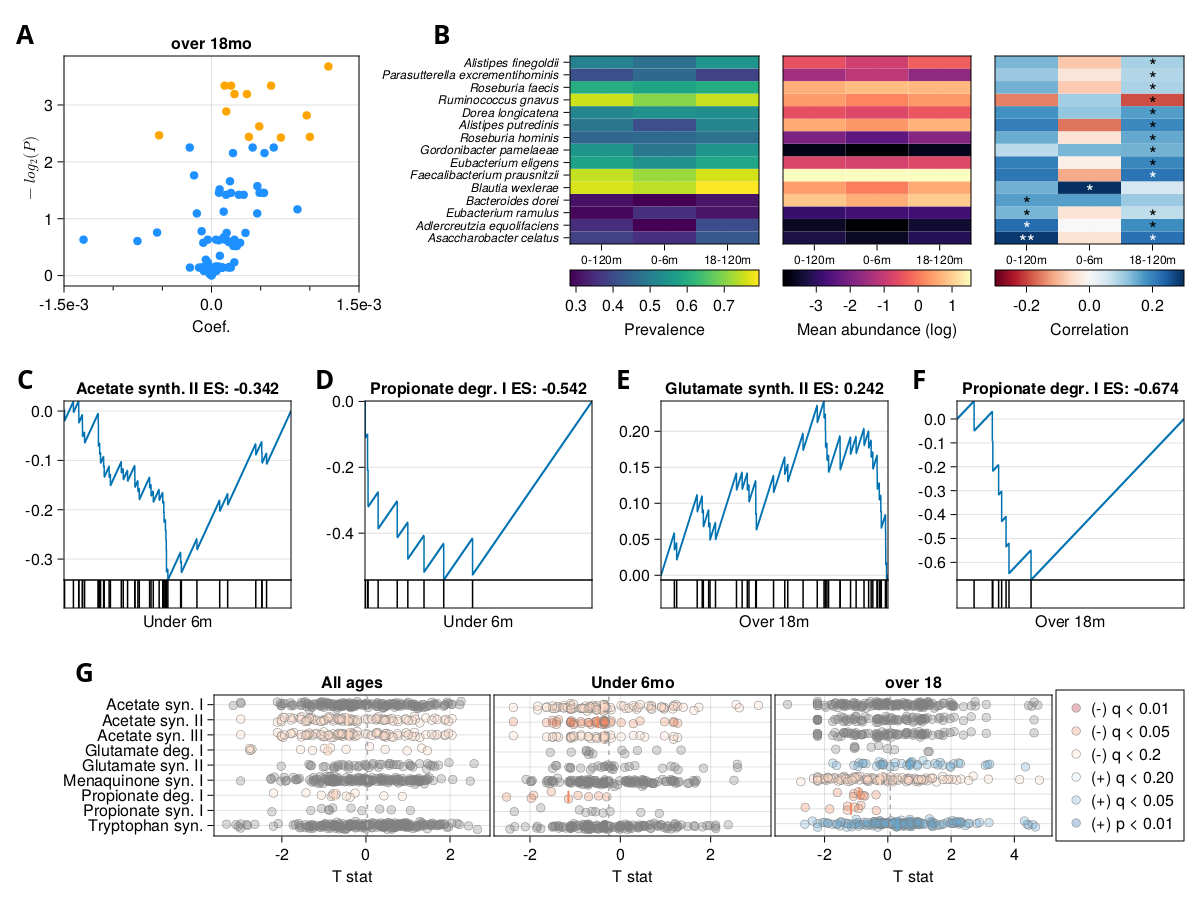
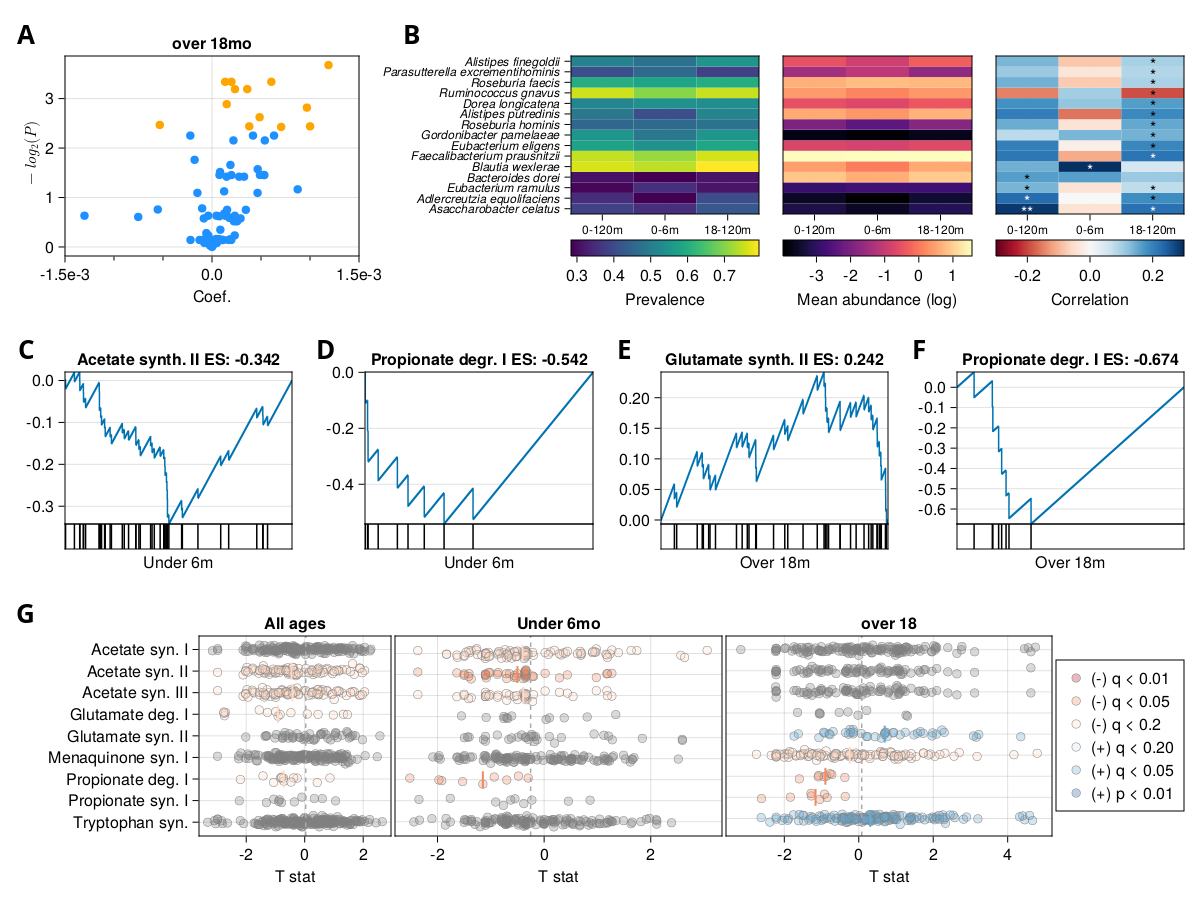
updates to figure 2

diff --git a/manuscript/Figure2.md b/manuscript/Figure2.md
@@ -96,7 +96,7 @@ C = GridLayout(CDEF[1, 1])
 D = GridLayout(CDEF[1, 2])
 E = GridLayout(CDEF[1, 3])
 F = GridLayout(CDEF[1, 4])
-G = GridLayout(figure[3,1], alignmode=Outside())
+G = GridLayout(figure[3,1], alignmode=Mixed(; left=0))
 ```
 
 ```julia
@@ -109,7 +109,6 @@ scatter!(aax, speclms_18to120.coef, -1 .* log2.(speclms_18to120.qvalue);
     color = map(q-> q < 0.2 ? :orange : :dodgerblue, speclms_18to120.qvalue))
 ```
 ```julia
-
 B = GridLayout(AB[1, 2:3])
 
 bax1 = let groups = ["0-120m", "0-6m", "18-120m"]
@@ -179,7 +178,6 @@ rowgap!(B, Fixed(4))
 
 
 ```julia
-
 let
     gs = "Acetate synthesis II"
     panel = C
@@ -243,7 +241,7 @@ let
   
     df = sort(subset(fsdf2_00to120, "geneset"=> ByRow(gs-> gs in genesets), "cortest"=>ByRow(==("cogScore"))), :geneset; rev=true)
     ax = Axis(G[1,1]; yticks = (1:nrow(df), replace.(df.geneset, r" \(.+\)" => "", "synthesis"=>"syn.", "degradation"=>"deg.")), 
-                xlabel="T stat", title="All ages")
+                xlabel="T stat", title="All ages", alignmode=Mixed(; left=-15))
     m = median(filter(x-> !isnan(x) && x < 7, cors_00to120.t))
     colors = ColorSchemes.colorschemes[:RdBu_7]
 
@@ -319,30 +317,30 @@ colgap!(G, Fixed(4))
 
 ```julia
 Label(AB[1, 1, TopLeft()], "A",
-    textsize = 26,
+    fontsize = 26,
     font = "Open Sans Bold",
     padding = (0, 30, 5, 0),
     halign = :right)
 Label(AB[1, 2, TopLeft()], "B",
-    textsize = 26,
+    fontsize = 26,
     font = "Open Sans Bold",
-    padding = (0, 120, 5, 0),
+    padding = (0, 150, 5, 0),
     halign = :right)
 
 for (label, layout) in zip(["C", "D", "E", "F"], [C, D, E, F])
     Label(layout[1, 1, TopLeft()], label,
-        textsize = 26,
+        fontsize = 26,
         font = "Open Sans Bold",
         padding = (0, 30, 5, 0),
         halign = :right)
 end
 
-Label(G[1, 1, TopLeft()], "G",
-        textsize = 26,
-        font = "Open Sans Bold",
-        padding = (0, 120, 5, 0),
-        halign = :right
-)
+Label(figure[3, 1, TopLeft()], "G";
+             fontsize = 26,
+             font = "Open Sans Bold",
+             padding = (0, 30, 5, 0),
+             halign = :right
+       )
 # colgap!(figure.layout, 2, -35)
 save("manuscript/assets/Figure2.png", figure)
 save(figurefiles("Figure2.svg"), figure)
